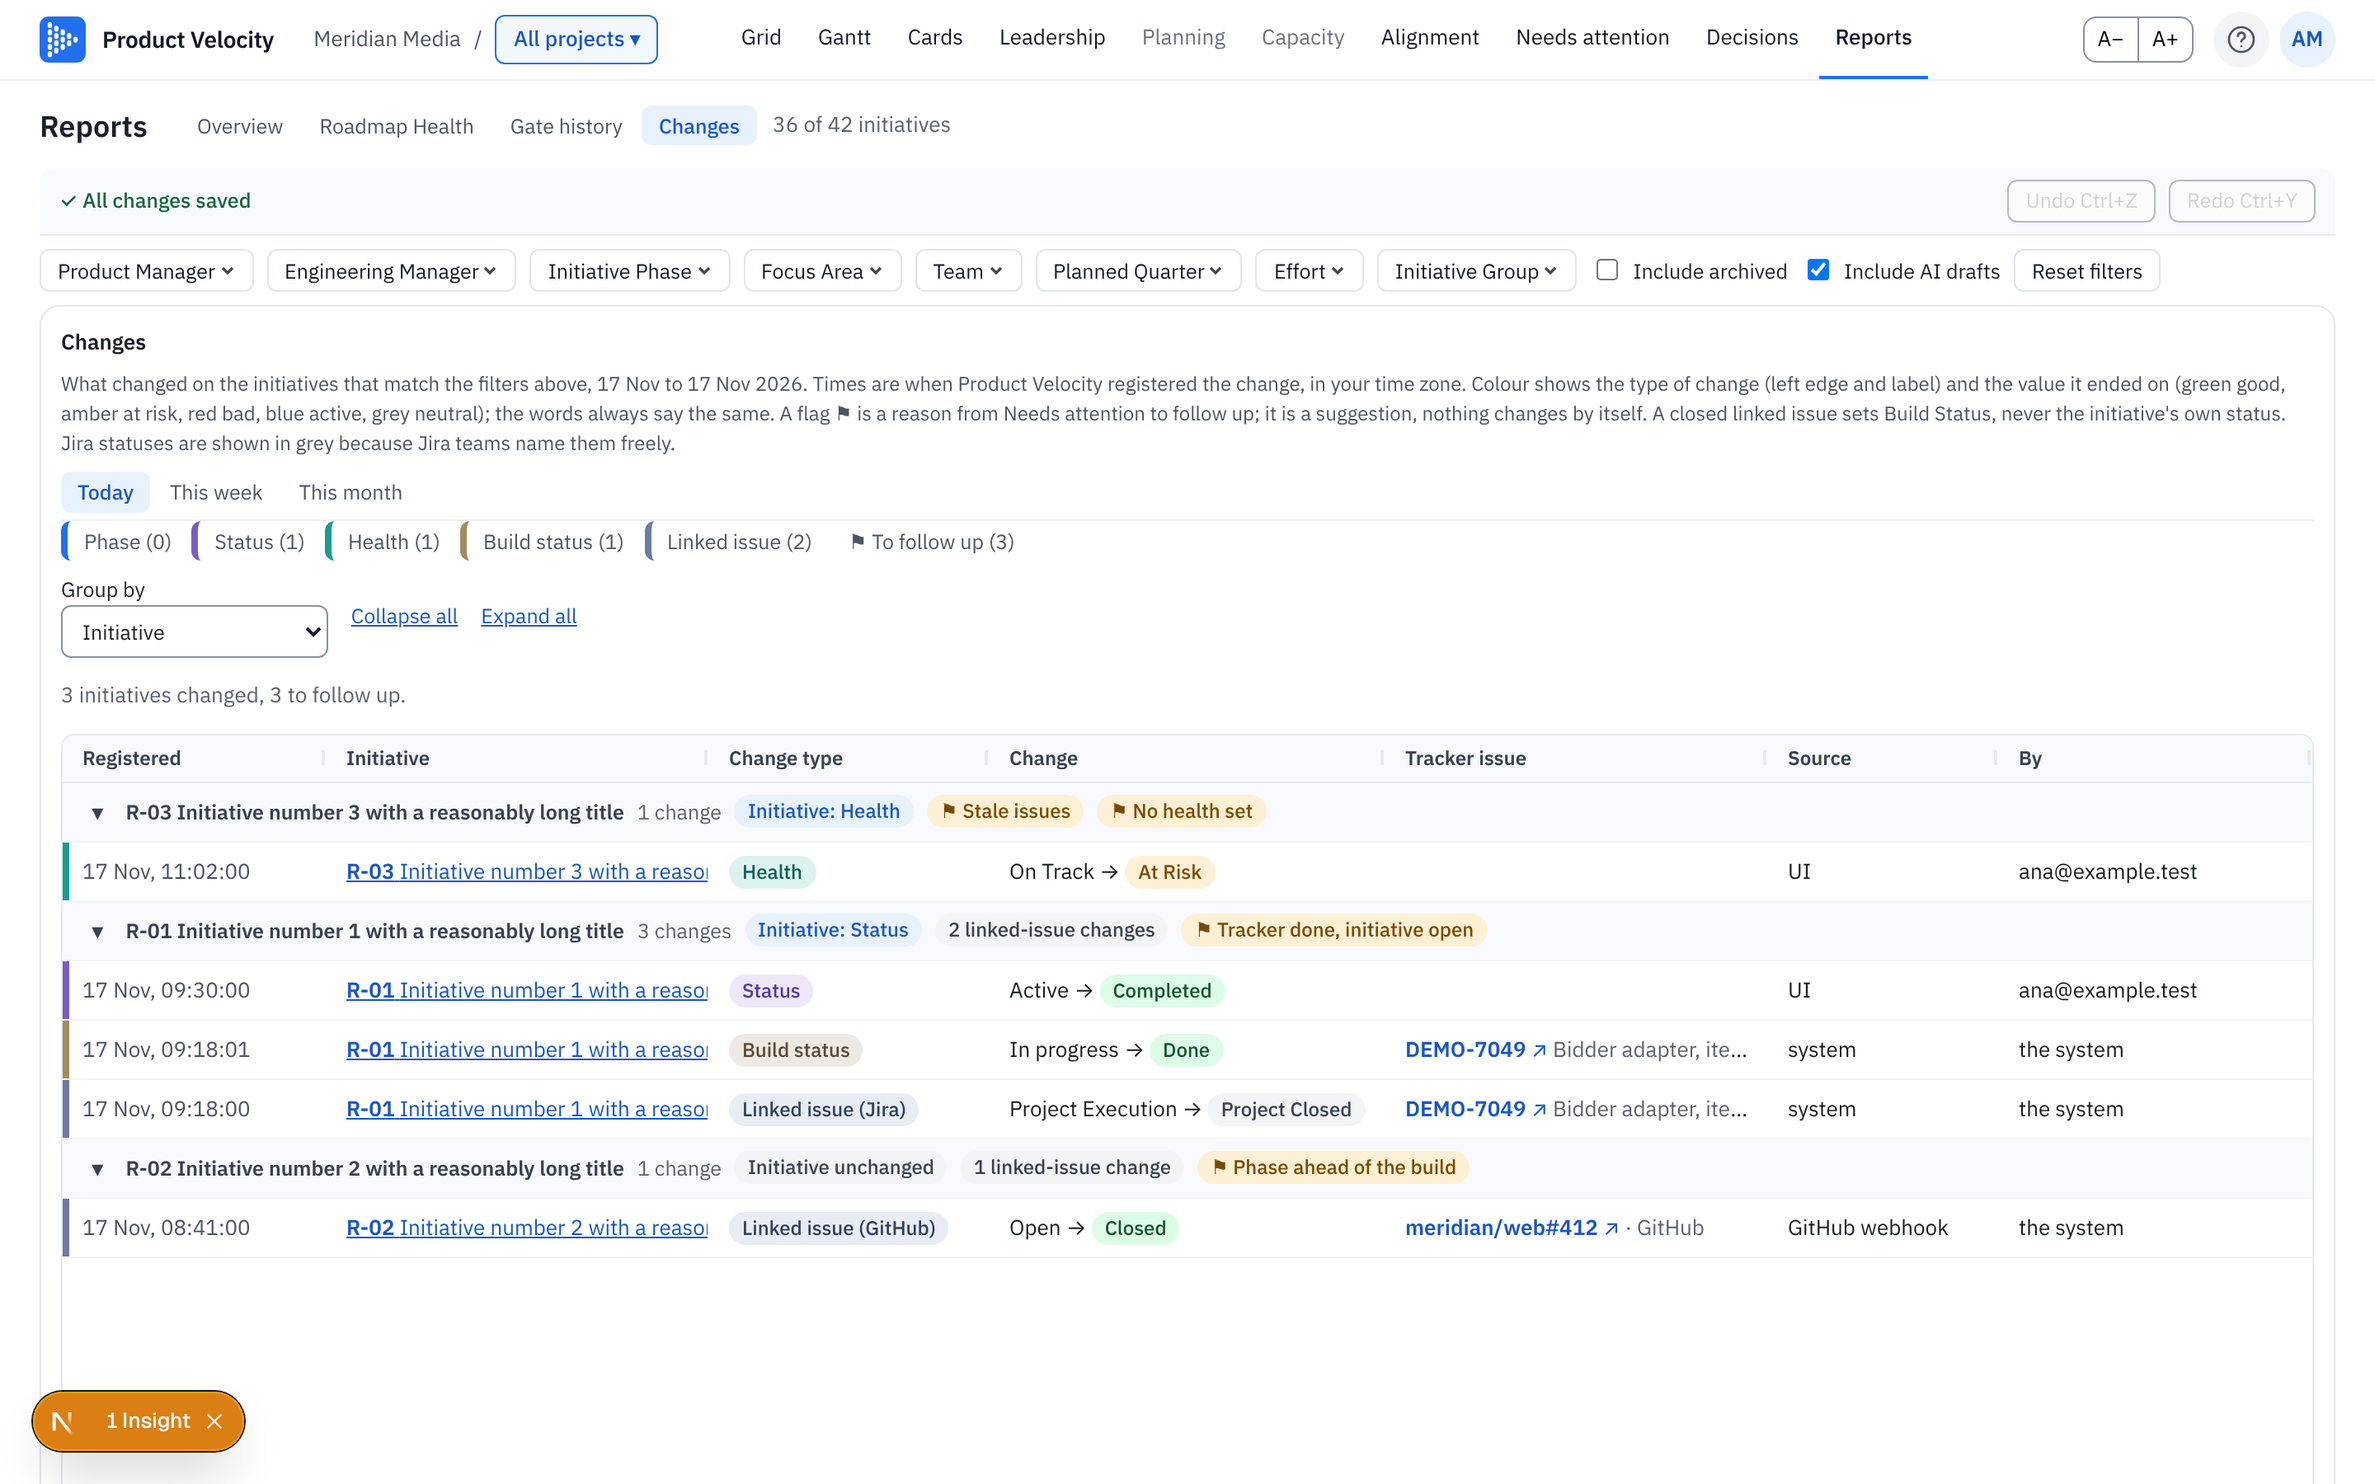
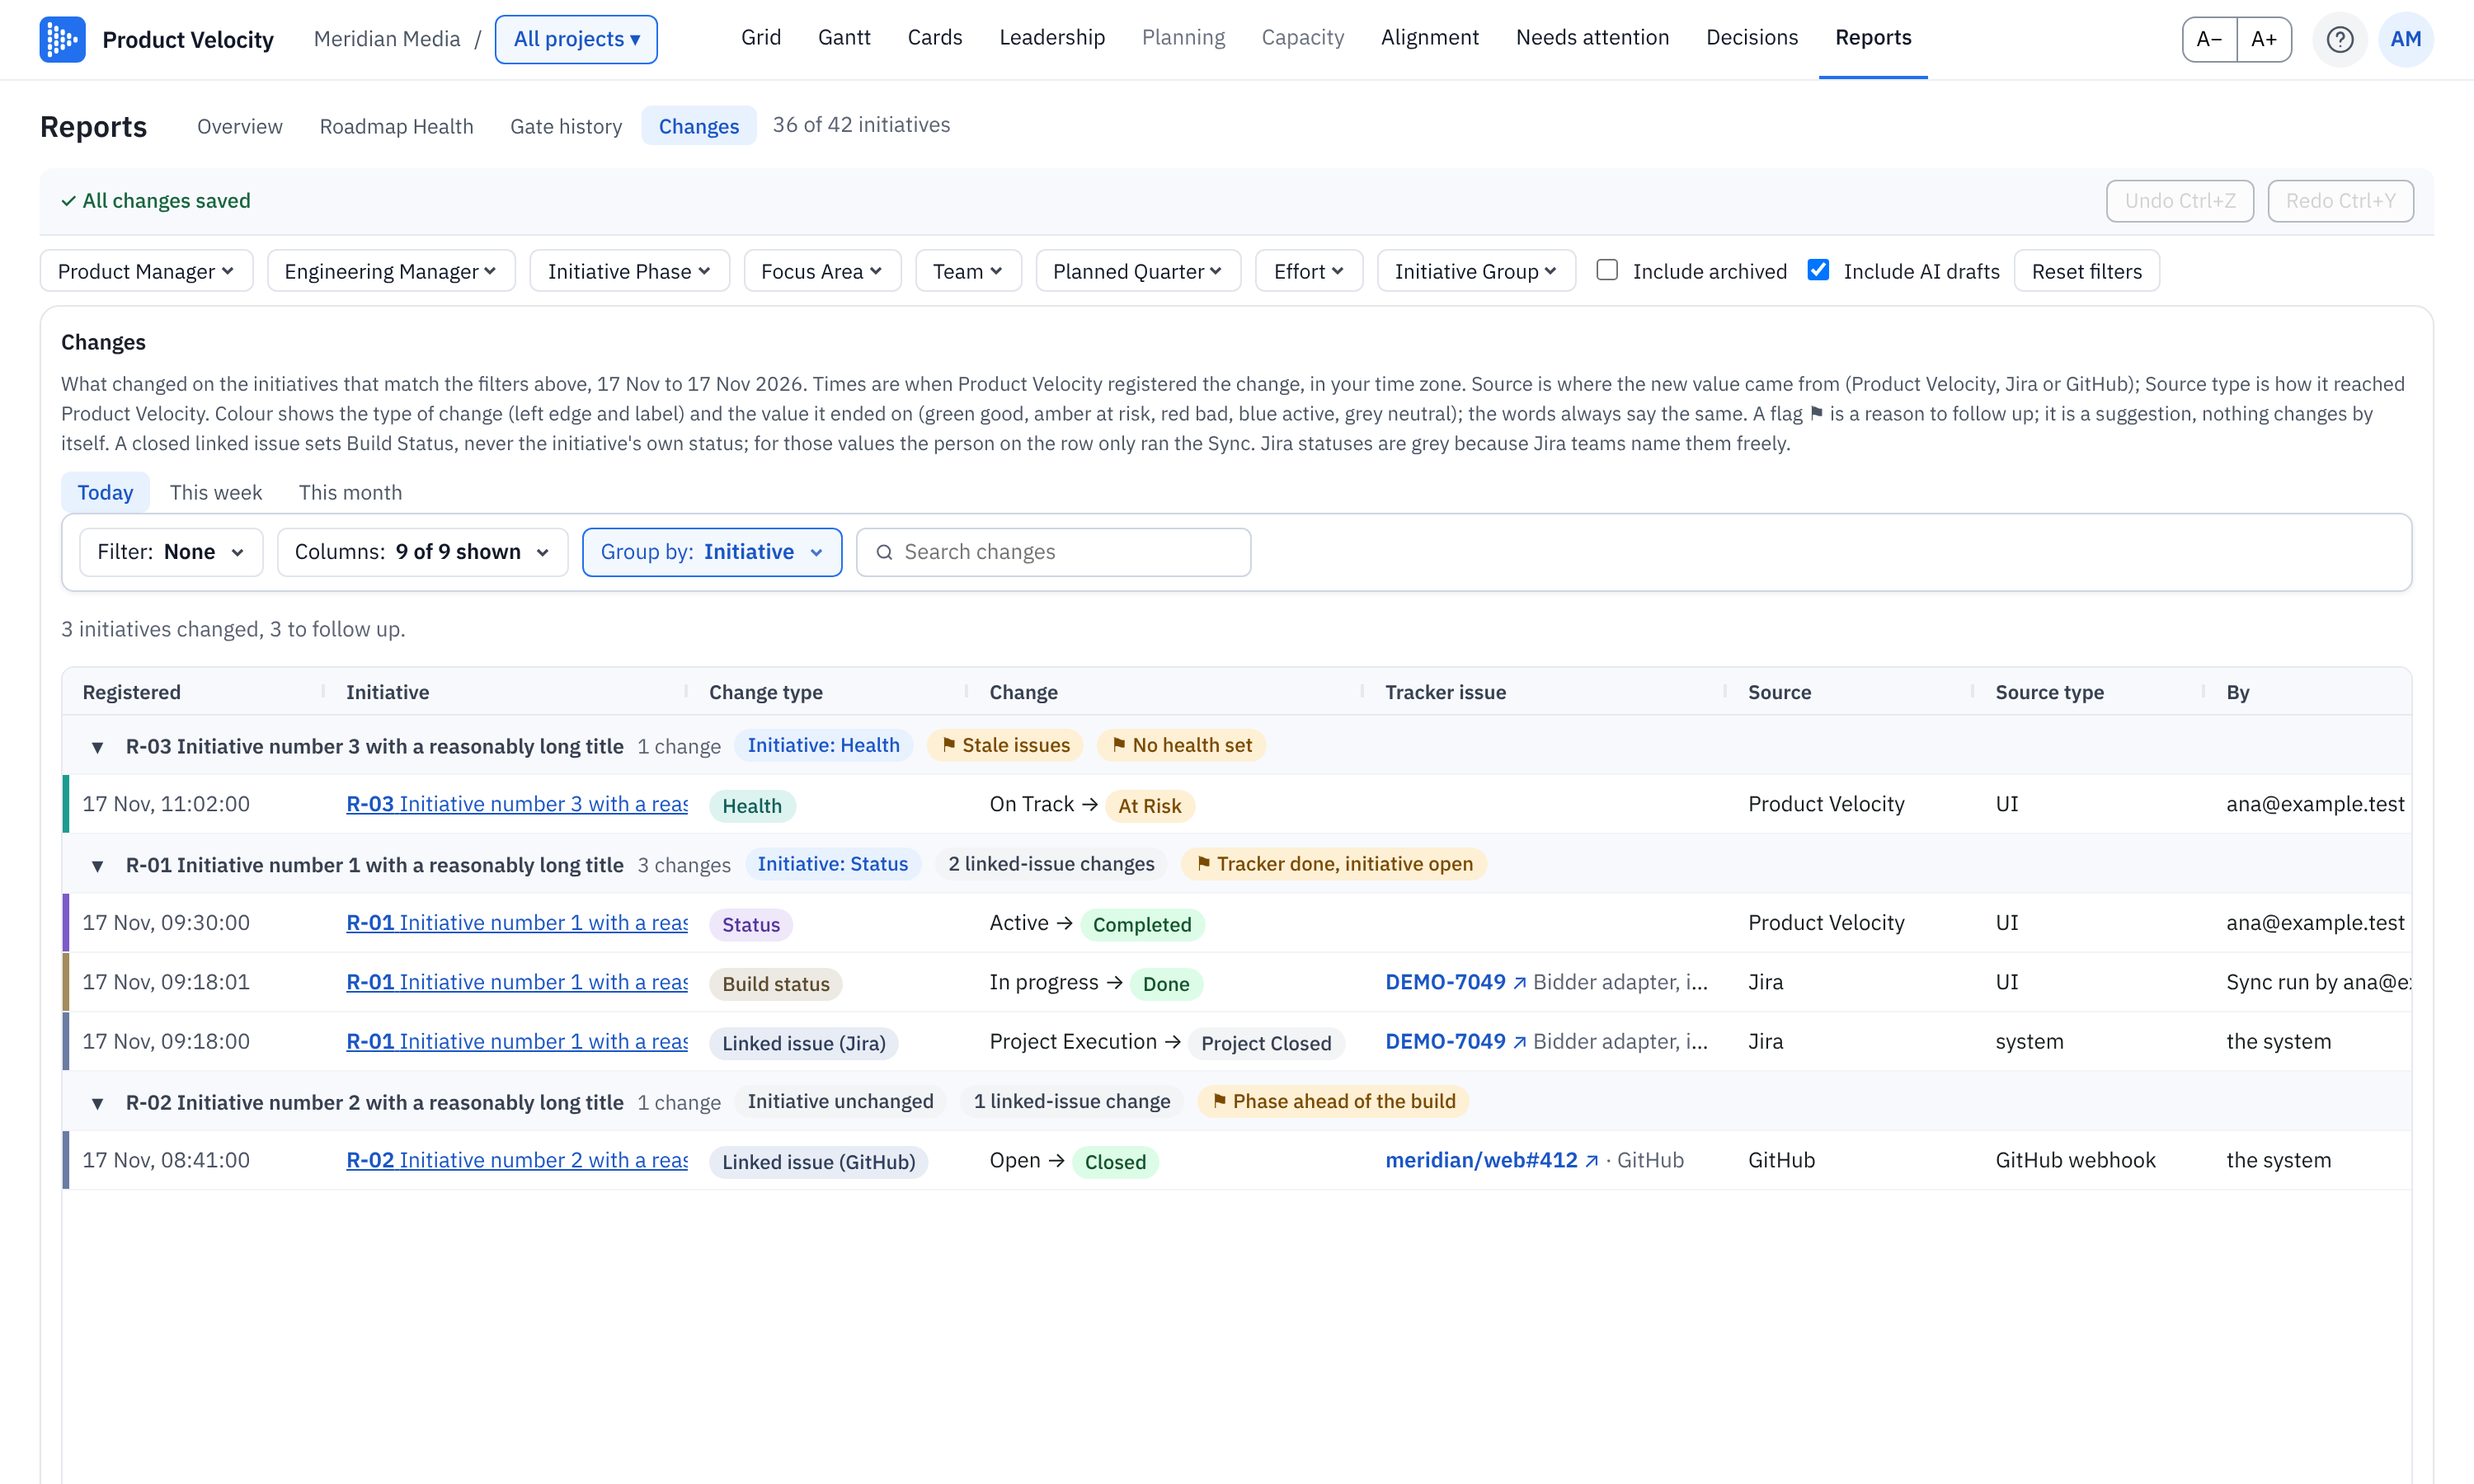
Changes report: action bar, Source and Source type, review fixes (#472)
Browser specs updated and added, a nightly browser-test workflow, the group and
issue rows of the grids are cells of their row, tracker values no longer read
as a person's change.

Claude-Session: https://claude.ai/code/session_01TMdyHsoRZT8bQ47JBSqkYg

diff --git a/apps/web/e2e/group-by-levels.spec.ts b/apps/web/e2e/group-by-levels.spec.ts
@@ -251,8 +251,10 @@ test.describe("Group by: picker, two levels, issues", () => {
     await expect(page.locator(".issue-row", { hasText: "SCRUM-18" })).toHaveCount(0);
     await expect(page.locator('.ag-row[row-id="item-1"] .issue-chip')).toHaveAttribute("aria-label", /3 issues.*1 hidden by the filter/);
     await expect(groupBtn(page)).toContainText("with issues");
-    // the last type cannot be unticked, and Everything puts them all back
+    // the last type cannot be unticked, and Everything puts them all back (the test issues have three types: Feature, Sub-task and Task)
     await groupBtn(page).click();
+    await types.getByRole("button", { name: /Sub-task/ }).click();
+    await expect(types.getByRole("button", { name: /Sub-task/ })).toHaveAttribute("aria-pressed", "false");
     await expect(types.getByRole("button", { name: /Feature/ })).toHaveAttribute("aria-pressed", "true");
     await types.getByRole("button", { name: /Feature/ }).click();
     await expect(types.getByRole("button", { name: /Feature/ })).toHaveAttribute("aria-pressed", "true");
@@ -322,7 +324,11 @@ test.describe("Group by: picker, two levels, issues", () => {
     await btn(page, "Apply").click();
     await expect(page.locator(".group-row").first()).toBeVisible();
     await expect(page.locator(".issue-row").first()).toBeVisible();
+    // AG Grid keeps a full-width row that is below the visible area as an empty placeholder until it scrolls into view (virtualisation), so only the rows that
+    // are drawn are checked: every group row and every issue row on screen must be a proper cell of its row.
+    const placeholder = /<div class="ag-full-width-anchor" role="presentation"><\/div><\/div>$/; // a row whose only child is the empty anchor
     const r = await new AxeBuilder({ page }).include(".grid-wrap").analyze();
-    expect(r.violations.map((v) => v.id + ": " + v.nodes.map((n) => n.target).join(" | "))).toEqual([]);
+    const found = r.violations.flatMap((v) => v.nodes.filter((n) => !placeholder.test(n.html.trim())).map((n) => v.id + ": " + n.target.join(" ")));
+    expect(found).toEqual([]);
   });
 });

diff --git a/apps/web/src/features/portfolio/portfolio-grid.tsx b/apps/web/src/features/portfolio/portfolio-grid.tsx
@@ -86,7 +86,7 @@ function IssueRowRenderer({ data, api }: { data: IssueRow; api: GridApi }) {
   const indent = data.depth * 18;
   const after = nameLeft + nameWidth + 8;
   return (
-    <div className="issue-row" data-last={data.last} data-depth={data.depth} role="gridcell" aria-label={`${c.type} ${c.key}: ${c.title}`}>
+    <div className="issue-row" data-last={data.last} data-depth={data.depth} role="gridcell">
       <span className="issue-branch" aria-hidden="true" style={{ left: nameLeft + 8 + indent }} />
       <span className="issue-cell" style={{ left: idLeft + 8, maxWidth: Math.max(60, nameLeft - idLeft - 12) }}>
         {c.url && isOpenableUrl(c.url) ? <a className="issue-key" href={c.url} target="_blank" rel="noopener noreferrer">{c.key}</a> : <span className="issue-key">{c.key}</span>}

diff --git a/apps/web/e2e/changes-report.spec.ts b/apps/web/e2e/changes-report.spec.ts
@@ -103,6 +103,7 @@ test.describe("Changes report", () => {
   test("grouping by change type and keeping only flagged initiatives", async ({ page }) => {
     await open(page);
     await bar(page, /^Group by:/).click();
+    await page.getByRole("button", { name: /Choose the grouping for Group by/ }).click(); // the next pick would fill Then by, like in the Roadmap grid
     await page.getByRole("group", { name: "Group by options" }).getByRole("button", { name: /^Change type/ }).click();
     await page.getByRole("button", { name: "Apply", exact: true }).click();
     await expect(bar(page, /^Group by:\s*Change type/)).toBeVisible();

diff --git a/docs/decisions/2026-11-17-changes-report.md b/docs/decisions/2026-11-17-changes-report.md
@@ -9,4 +9,4 @@ request: 472
 
 **Update (Ashu tested the report, 2026-11-17):** (1) clicking an initiative did not show the details panel: it opened under the page, out of sight; the Reports page now has a side panel like the Gantt (for every report). (2) Jira and GitHub changes show the issue: new "Tracker issue" column with the ID as a link to the tracker, the Jira issue name, and the tracker; read through the member's own access from `item_jira_links`, `item_github_links` and `jira_issues`, no migration. (3) Flags: a check of the real data (counts only) showed that nearly every Jira-linked initiative has no Initiative Phase and no Initiative Status, so the R-27 rule (phase Build) could not fire. Two report-only flags were added for that case (*Tracker done, initiative open*, *No phase set*); Needs attention is unchanged on purpose (it would gain dozens of entries). Nothing in the main grid changed.
 
-**Update (review, then Ashu, 2026-11-17): fixes and the Roadmap's action bar.** Review findings fixed: (1) the three Reports and Needs attention browser tests that my change had broken and the three "Show issues" ones that were stale (the test harness gained sub-tasks) were updated to the real numbers, a browser spec for the Changes report was added, and **CI now runs the browser tests** in a separate `e2e` job (add it to the required checks of `main` to make it block merges; it is not required yet); (2) tracker values no longer read as a person's change: the new Source column says Jira or GitHub, and By says "Sync run by Ana"; (3) the group header row and the issue rows had a critical accessibility fault (`aria-required-children`: a row without cells), in the Roadmap grid too when grouped; their content is now a `gridcell`, with a test. Requests: the **action bar of the Roadmap grid** (Filter, Columns, Group by, Search) in the report, adapted; **Source type** (the old Source: UI, system, ...) and a new **Source** in front of it (Product Velocity, Jira, GitHub; written "Jira" and "GitHub"). Choices made without asking: the Roadmap's panels are tied to item fields, so the report has its own panels built from the same parts and classes (Popover, quick-filter pills, panel footer) instead of changing the Roadmap's; no grouping by person (rule 8); columns and grouping are remembered per browser, not shared; saved views and export were left out. Docs: `docs/28-DECISION-GATES.md` 7c.
+**Update (review, then Ashu, 2026-11-17): fixes and the Roadmap's action bar.** Review findings fixed: (1) the three Reports and Needs attention browser tests that my change had broken and the three "Show issues" ones that were stale (the test harness gained sub-tasks) were updated to the real numbers, a browser spec for the Changes report was added, and the browser tests now run **every night and on demand** in GitHub (`.github/workflows/e2e.yml`), not on every pull request: on `main` six other specs are red for unrelated reasons (listed in `docs/11-ENVIRONMENTS.md`), and a job red on every pull request would teach people to merge around it; fix those, then move it into `ci.yml` and require it; (2) tracker values no longer read as a person's change: the new Source column says Jira or GitHub, and By says "Sync run by Ana"; (3) the group header row and the issue rows had a critical accessibility fault (`aria-required-children`: a row without cells), in the Roadmap grid too when grouped; their content is now a `gridcell`, with a test. Requests: the **action bar of the Roadmap grid** (Filter, Columns, Group by, Search) in the report, adapted; **Source type** (the old Source: UI, system, ...) and a new **Source** in front of it (Product Velocity, Jira, GitHub; written "Jira" and "GitHub"). Choices made without asking: the Roadmap's panels are tied to item fields, so the report has its own panels built from the same parts and classes (Popover, quick-filter pills, panel footer) instead of changing the Roadmap's; no grouping by person (rule 8); columns and grouping are remembered per browser, not shared; saved views and export were left out. Docs: `docs/28-DECISION-GATES.md` 7c.

diff --git a/docs/releases/unreleased/20261117-changes-action-bar.md b/docs/releases/unreleased/20261117-changes-action-bar.md
@@ -1,4 +1,4 @@
 ---
 bump: minor
 ---
-**Changes report: the Roadmap's action bar, Source and Source type, and accessibility and test fixes.** The Changes report now has the same action bar as the Roadmap grid: Filter (quick filters and custom rules), Columns (show, hide, reorder), Group by (two levels: initiative, change type, source, source type or day) and Search, with the chosen columns and grouping remembered in your browser. The Source column is now called Source type (UI, API, Claude MCP, GitHub webhook, import, system) and a new Source column in front of it says where the value came from: Product Velocity, Jira or GitHub. A Build Status or linked-issue status set by the tracker no longer reads as a person's change: it says "Sync run by" the person who refreshed it. Group rows and issue rows in the Roadmap grid are now proper cells of their row (an accessibility fault found in review). The browser tests now run in CI and the ones that had gone stale were brought up to date. No migration.
+**Changes report: the Roadmap's action bar, Source and Source type, and accessibility and test fixes.** The Changes report now has the same action bar as the Roadmap grid: Filter (quick filters and custom rules), Columns (show, hide, reorder), Group by (two levels: initiative, change type, source, source type or day) and Search, with the chosen columns and grouping remembered in your browser. The Source column is now called Source type (UI, API, Claude MCP, GitHub webhook, import, system) and a new Source column in front of it says where the value came from: Product Velocity, Jira or GitHub. A Build Status or linked-issue status set by the tracker no longer reads as a person's change: it says "Sync run by" the person who refreshed it. Group rows and issue rows in the Roadmap grid are now proper cells of their row (an accessibility fault found in review). The browser tests now run every night in GitHub, and the ones that had gone stale were brought up to date. No migration.

diff --git a/docs/11-ENVIRONMENTS.md b/docs/11-ENVIRONMENTS.md
@@ -86,4 +86,4 @@ Off by default. To try it: (1) Supabase dashboard, **Authentication → OAuth Se
 
 ## Browser tests
 
-`apps/web/e2e` holds the browser (Playwright) tests. They run against a production build made with `NEXT_PUBLIC_E2E_HARNESS=1`, which turns on the in-memory test pages under `/dev`. Locally: `NEXT_PUBLIC_E2E_HARNESS=1 pnpm --filter web exec next build`, then `pnpm --filter web e2e` (set `PW_CHROMIUM` to an installed Chromium if Playwright's own browser is not there). CI runs them in the `e2e` job of `.github/workflows/ci.yml` on every pull request (issue #472: before that they ran nowhere, and six of them were red unnoticed). The job is separate from `check` so the fast check stays fast; add `e2e` to the required checks of the `main` branch (Settings, Rules) to make a red browser test block a merge.
+`apps/web/e2e` holds the browser (Playwright) tests. They run against a production build made with `NEXT_PUBLIC_E2E_HARNESS=1`, which turns on the in-memory test pages under `/dev`. Locally: `NEXT_PUBLIC_E2E_HARNESS=1 pnpm --filter web exec next build`, then `pnpm --filter web e2e` (set `PW_CHROMIUM` to an installed Chromium if Playwright's own browser is not there). GitHub runs them every night and on demand (`.github/workflows/e2e.yml`; Actions, Browser tests, Run workflow). They are not on every pull request yet (issue #472): on `main` several specs are red for reasons unrelated to any one change (`bar.spec.ts` "Help opens the guide", `cards.spec.ts` the four default views, `dialogs.spec.ts` the import dialog at 800x520, `github-removed.spec.ts`, `jira-sync.spec.ts` "Removed in Product Velocity", `menus-close.spec.ts` "grouped rows show the health in words"), and a job that is red on every pull request teaches people to merge around it. Fix those, then move the job into `ci.yml` (on `pull_request`) and add it to the required checks of `main` (Settings, Rules).
